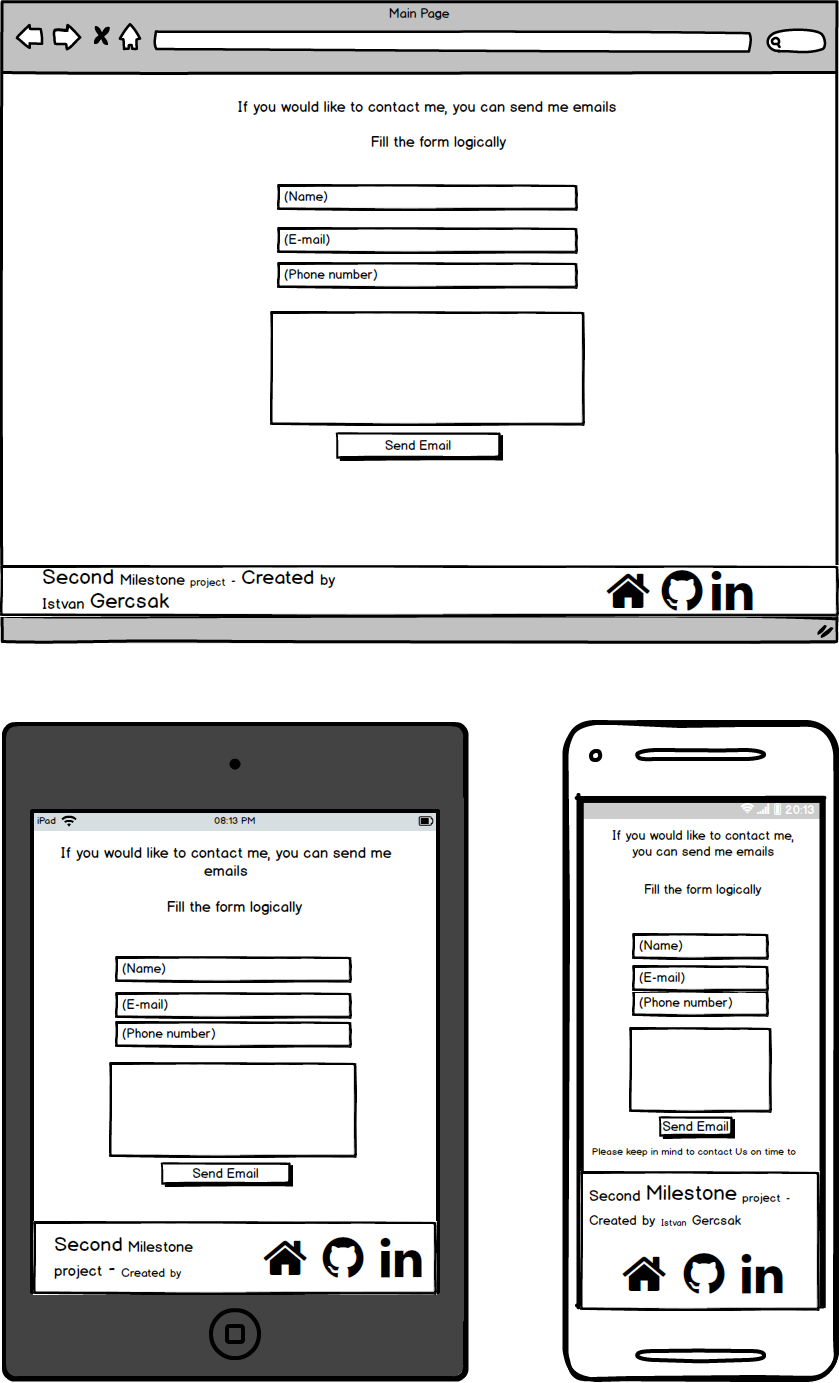
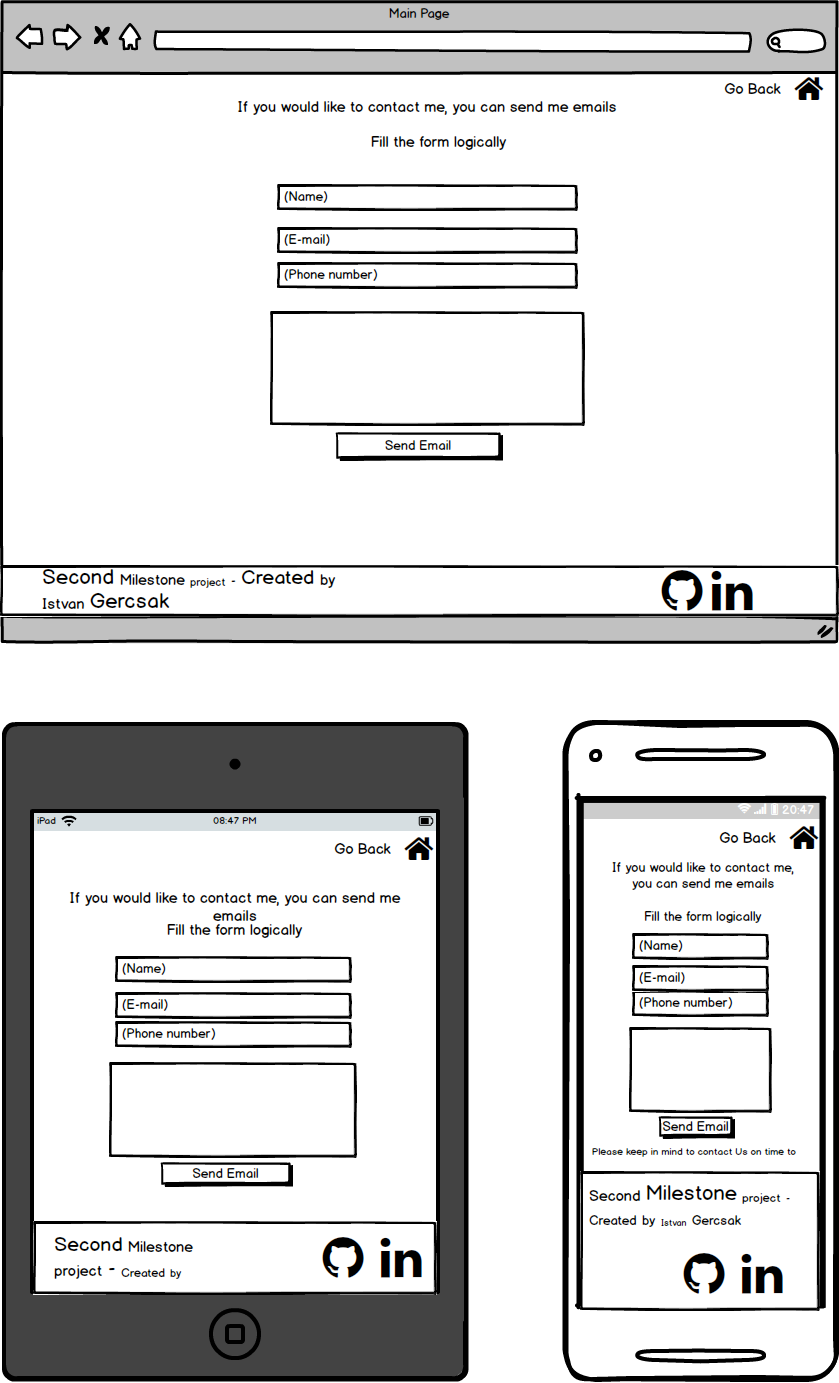
Refactor nav bar, Redesign Mockups, Reset button color change

diff --git a/contact.html b/contact.html
@@ -16,16 +16,16 @@
           href="https://stackpath.bootstrapcdn.com/bootstrap/4.3.1/css/bootstrap.min.css">
     <link rel="stylesheet" type="text/css" href="assets/css/style.css">
     <link rel="shortcut icon" type="image/png" href="favicon.ico">
-    <script type="text/javascript" src="https://cdn.emailjs.com/sdk/2.3.2/email.min.js"></script>
-    <script type="text/javascript">
+    <script src="https://cdn.emailjs.com/sdk/2.3.2/email.min.js"></script>
+    <script>
         (function () {
             emailjs.init("user_UbCoPC43RLfiM2XQAtuaB");
         })();
     </script>
 </head>
 <body>
-<div class="container-fluid">
-    <nav class="row header-container">
+<nav class="container-fluid">
+    <div class="row header-container">
         <div class="col-lg-1 col-md-1">
         </div>
         <div class="col-lg-11 col-md1-11 envelop">
@@ -35,8 +35,8 @@
                 <i class="fas fa-home"></i>
             </a>
         </div>
-    </nav>
-</div>
+    </div>
+</nav>
 <section class="container-fluid contact-container">
     <div class="row">
         <div class="col-lg-12">

diff --git a/index.html b/index.html
@@ -20,8 +20,8 @@
 </head>
 <body>
 
-<div class="container-fluid">
-    <nav class="row header-container">
+<nav class="container-fluid">
+    <div class="row header-container">
         <div class="col-lg-1 col-md-1">
         </div>
         <div class="col-lg-11 col-md1-11 envelop">
@@ -31,8 +31,8 @@
                 <i class="fas fa-envelope-square"></i>
             </a>
         </div>
-    </nav>
-</div>
+    </div>
+</nav>
 <section>
     <!-- SEARCH -->
 

diff --git a/assets/css/style.css b/assets/css/style.css
@@ -165,6 +165,8 @@ h5 {
     padding-left: 8px;
     padding-right: 10px;
     margin: 0 auto 15px auto;
+    background: #206f74;
+    border: 2px solid #206f74;
 }
 
 /* Footer */
@@ -218,6 +220,7 @@ footer p {
 ###### CONTACT PAGE #######
 ###########################
 */
+
 .contact-container {
     text-align: center;
 }

diff --git a/Testing.md b/Testing.md
@@ -184,7 +184,7 @@ I prefer the GitHub Pages option instead of the Cloud9 because it is stable and 
 
 **Testing Tools:**
  - Chrome browser built-in developer tool
- - PC with HD resolution (with real usage)
+ - PC with full HD resolution (with real usage)
  - Mobile Phones: 
     - iPhone SE
     - Google Pixel 3
